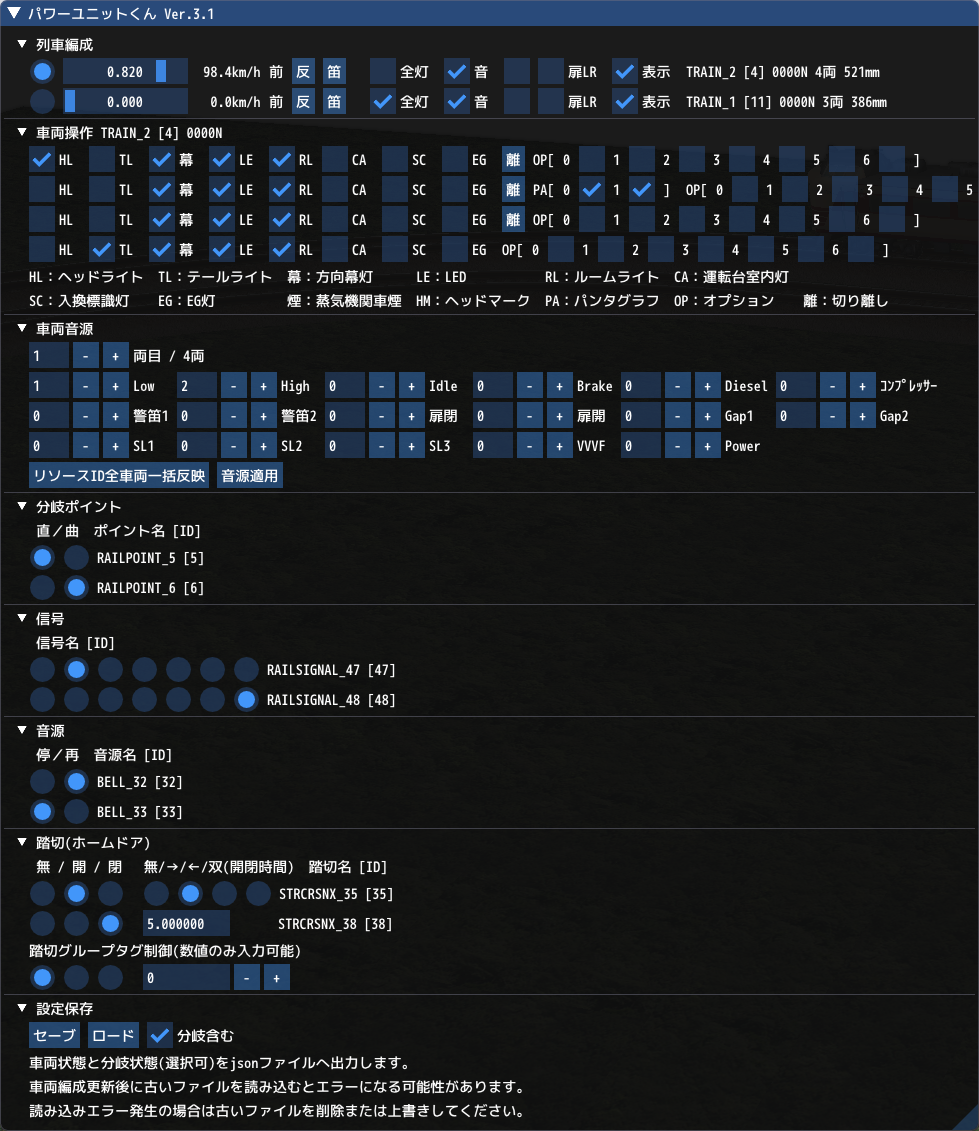
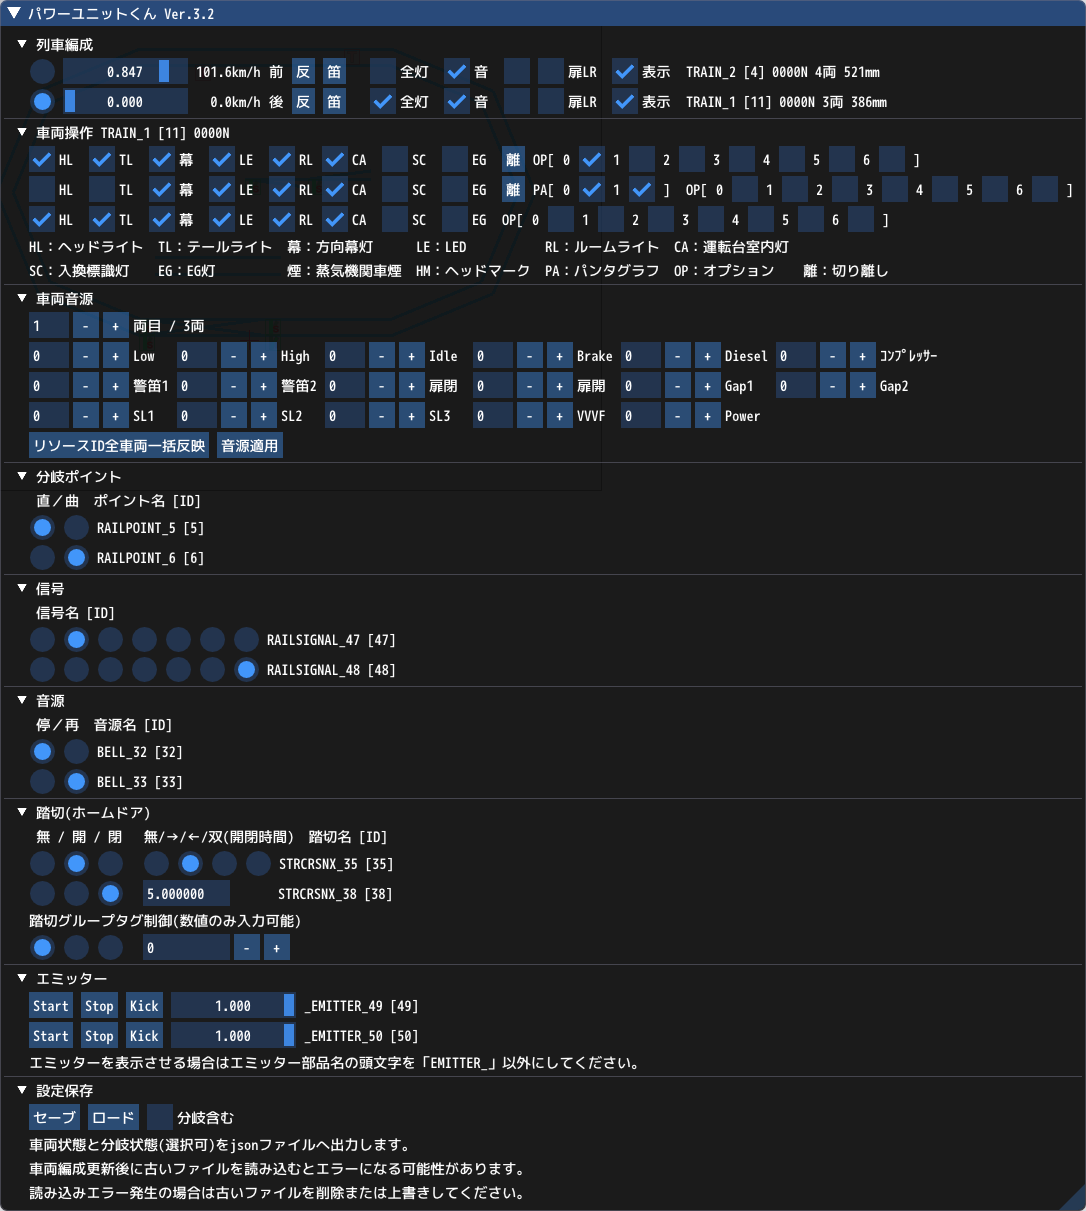
エミッターに対応

Changed region(s): [[0.0, 0.0, 1.0, 0.9903], [0.9806, 0.9903, 1.0, 1.0]]

diff --git a/powerunit.py b/powerunit.py
@@ -1,6 +1,6 @@
-__title__ = "パワーユニットくん Ver.3.1"
+__title__ = "パワーユニットくん Ver.3.2"
 __author__ = "Caldia"
-__update__  = "2024/06/09"
+__update__  = "2025/03/16"
 
 import vrmapi
 import os
@@ -141,6 +141,21 @@ def init(obj):
         else:
             vrmapi.LOG("{0} [{1}] ダミースキップ".format(xs.GetNAME(), xs.GetID()))
 
+    # エミッターリストを新規リストに格納
+    eList=list()
+    vrmapi.LAYOUT().ListEmitter(eList)
+    l_di['pw_eList'] = []
+    # エミッターリストから繰り返し取得
+    for es in eList:
+        # 頭文字「EMITTER_」(標準)は対象外
+        if es.GetNAME()[0:8] != 'EMITTER_':
+            # 初期値設定
+            di = es.GetDict()
+            # リスト追加
+            l_di['pw_eList'].append(es)
+        else:
+            vrmapi.LOG("{0} [{1}] スキップ".format(es.GetNAME(), es.GetID()))
+
 
 # ウィンドウ描画(ツリーを開いている箇所のみ処理してコストを抑える)
 def drawFrame(obj):
@@ -247,7 +262,39 @@ def drawFrame(obj):
         # 踏切タグ名(InputText無いのでIntで代用)
         gui.InputInt("pwcrosstag", '', l_di['pw_xTag'])
         gui.PopItemWidth()
+        gui.TreePop()
+    gui.Separator()
 
+    if gui.TreeNode("pwemitter", "エミッター"):
+        # エミッターリストを取得
+        eList = l_di['pw_eList']
+        for es in eList:
+            strId = str(es.GetID())
+            if gui.Button("eb1"+ strId, "Start"):
+                # エミッター開始
+                es.Start()
+            gui.SameLine()
+            if gui.Button("eb2"+ strId, "Stop"):
+                # エミッター停止
+                es.Stop()
+            gui.SameLine()
+            if gui.Button("eb3"+ strId, "Kick"):
+                # エミッターを一度だけ実行
+                es.Kick()
+            gui.SameLine()
+            # スライドバーサイズ調整
+            gui.PushItemWidth(100.0)
+            # パーティクル生成数取得
+            pcary = [es.GetPCreateFactor()]
+            if gui.SliderFloat('es' + strId, '', pcary, 0, 1.0):
+                # パーティクル生成数反映
+                es.SetPCreateFactor(pcary[0])
+            # サイズリセット
+            gui.PopItemWidth()
+            # エミッター情報
+            gui.SameLine()
+            gui.Text("{0} [{1}]".format(es.GetNAME(), strId))
+        gui.Text("エミッターを表示させる場合はエミッター部品名の頭文字を「EMITTER_」以外にしてください。")
         gui.TreePop()
     gui.Separator()
 

diff --git a/README.md b/README.md
@@ -28,18 +28,7 @@ def vrmevent(obj,ev,param):
     powerunit.vrmevent(obj,ev,param) # ★メイン処理
     if ev == 'init':
         dummy = 1
-    elif ev == 'broadcast':
-        dummy = 1
-    elif ev == 'timer':
-        dummy = 1
-    elif ev == 'time':
-        dummy = 1
-    elif ev == 'after':
-        dummy = 1
-    elif ev == 'frame':
-        dummy = 1
-    elif ev == 'keydown':
-        dummy = 1
+# (省略) #
 ```
 
 ファイル読み込みに成功するとビュワー起動直後にスクリプトログへ下記メッセージが表示されます。
@@ -164,6 +153,18 @@ elif ev == 'catch':
 踏切タググループを入力して一括制御できます。  
 (ImGuiのInputBox未実装のため、入力文字は整数値に制限されます)
 
+### エミッター
+頭文字に「EMITTER_」が付かない名前変更されたオブジェクトが操作対象になります。  
+以下の命令に対応しています。
+
+|列|略称|対象|関連関数|
+|--|----|----|--------|
+| 1|Start|エミッター開始      |[Start](https://vrmcloud.net/nx/script/script/emitter/Start.html)|
+| 2|Stop |エミッター停止      |[Stop](https://vrmcloud.net/nx/script/script/emitter/Stop.html)|
+| 3|Kick |エミッターを1回実行 |[Kick](https://vrmcloud.net/nx/script/script/emitter/Kick.html)|
+| 4|スライドバー|パーティクル生成数調整|[SetPCreateFactor](https://vrmcloud.net/nx/script/script/emitter/SetPCreateFactor.html)|
+
+
 ### 設定保存
 「セーブ」ボタンを押すと車両設定とポイント設定の状態をjsonファイルへ保存できます。  
 「ロード」ボタンを押すとjsonファイルから状態を復元します。  
@@ -178,6 +179,8 @@ loadConfig() # ★ここのコメントアウトを外す
 
 
 ## 履歴
+- 2025/03/16 v3.2
+  - エミッターに対応
 - 2024/06/09 v3.1
   - 編成表示切替を追加
   - 車両オプションを4個から7個(0～6)へ追加(キハ40系以降対応)
